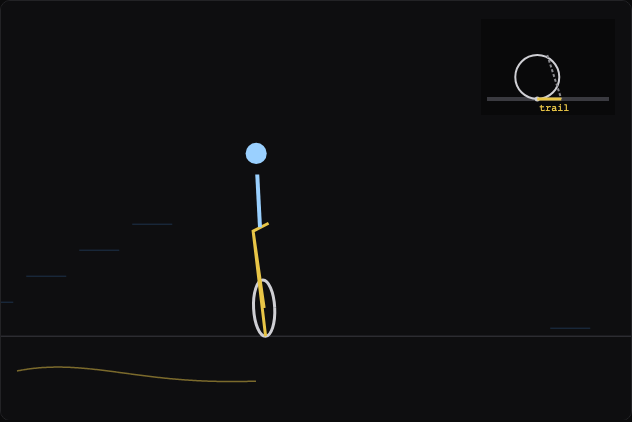
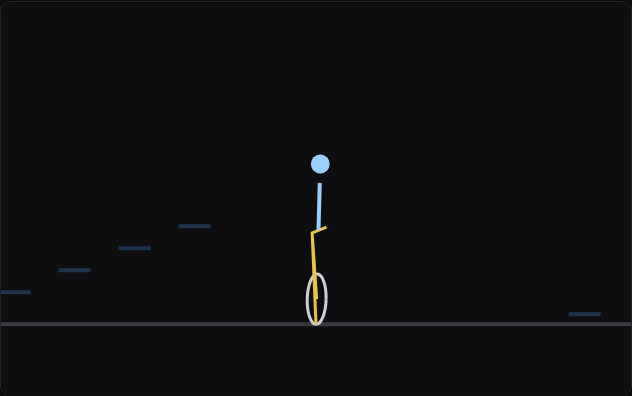
Rebuild Bicycle as a ground-up multi-figure module + flow lessons back
/sims/bicycle/: a deep Ciechanowski-style explainer that climbs the
prerequisite ladder — hero bike, then Force (F=ma), Torque (balance
beam), Balance (still bike falls), Trail (fork geometry), and
Self-stability (speed x trail), each its own draggable inline figure on
simkit. Verified all six render with no JS errors.

Skill lessons flowed back: document the \"inline multi-figure article\"
as a third module kind with the reusable per-figure fig() scaffold and
/sims/bicycle/ as the worked ground-up example; add a unit-consistency
anti-pattern (the force-figure bug) + screenshot-each-figure check.

diff --git a/sims/bicycle/index.html b/sims/bicycle/index.html
@@ -4,131 +4,186 @@
     <meta charset="utf-8" />
     <meta name="viewport" content="width=device-width, initial-scale=1" />
     <title>Why a Bicycle Stays Up — Kevin Arifin</title>
+    <meta name="description" content="A ground-up explorable: build from Newton's forces and torque to why a moving bicycle balances itself." />
     <link rel="stylesheet" href="../lib/sim.css" />
     <style>
-      .explain { display: grid; grid-template-columns: 1fr 1fr; gap: 36px; align-items: start; }
-      .figure { position: sticky; top: 16px; }
-      .figure .stage { aspect-ratio: 1 / 1; }
-      .figure .cap { margin-top: 8px; font-size: 0.8rem; color: var(--muted); min-height: 2.4em; }
-      .steps .step { min-height: 80vh; display: flex; flex-direction: column; justify-content: center;
-        border-left: 2px solid var(--border); padding-left: 18px; transition: border-color 0.2s ease; }
-      .steps .step.active { border-color: var(--accent); }
-      .steps .step h2 { font-size: 1.1rem; margin: 0 0 8px; }
-      .steps .step p { color: var(--muted); margin: 0; }
-      @media (max-width: 760px) {
-        .explain { grid-template-columns: 1fr; gap: 0; }
-        .figure { position: sticky; top: 0; z-index: 2; background: var(--bg); padding: 10px 0; }
-        .figure .stage { aspect-ratio: 3 / 2; }
-        .steps .step { min-height: 72vh; }
-      }
+      .sim { max-width: 720px; }
+      .lede { color: var(--muted); font-size: 1.06rem; }
+      .sim h2 { font-size: 1.2rem; margin: 38px 0 10px; }
+      .sim p { line-height: 1.72; }
+      .fig { margin: 22px 0 6px; }
+      .fig .stage { aspect-ratio: 16 / 10; }
+      .fig .controls { margin-top: 10px; }
+      .fig .cap { font-size: 0.8rem; color: var(--muted); margin-top: 7px; text-align: center; }
+      .rung { font-family: ui-monospace, Menlo, monospace; font-size: 0.72rem; letter-spacing: 0.12em; text-transform: uppercase; color: var(--accent); margin: 40px 0 -4px; }
     </style>
   </head>
   <body>
     <main class="sim">
       <a class="back" href="/sims/">← Sims</a>
       <h1>Why a Bicycle Stays Up</h1>
-      <p class="sub">In the spirit of Bartosz Ciechanowski's bicycle. The surprise: a moving bike balances itself, and the reason is the steering <em>geometry</em> — the front wheel trails behind the steering axis, so a lean makes it steer back underneath you. <strong>Canvas 2D</strong> · physics.</p>
+      <p class="lede">A moving bike, given a nudge, steers itself upright. That's genuinely strange — so we'll build the answer from the ground up: start with Newton's forces, add torque, see why standing still fails, then discover the steering trick that does the work. In the spirit of Bartosz Ciechanowski. Drag everything.</p>
 
-      <div class="explain">
-        <div class="figure">
-          <div class="stage" aria-label="Rear view of a self-balancing bike with a side-view of the steering trail"><canvas id="c"></canvas></div>
-          <div class="cap" id="cap"></div>
-          <div class="controls">
-            <label class="row"><span>Speed <strong id="vValue"></strong></span>
-              <input id="v" type="range" min="0" max="12" step="0.2" value="6" /></label>
-            <label class="row"><span>Trail <strong id="trValue"></strong></span>
-              <input id="tr" type="range" min="0" max="1" step="0.02" value="0.6" /></label>
-            <button id="nudge">Nudge</button>
-            <button id="reset">Reset</button>
-          </div>
-        </div>
-        <div class="steps" id="steps">
-          <section class="step" data-step data-v="0" data-tr="0.6" data-kick="0.9"><h2>1 · Standing still, it falls</h2><p>A bike is an upside-down pendulum. Give a stationary one the smallest lean and gravity just keeps pulling it over. Speed = 0 here — watch it topple.</p></section>
-          <section class="step" data-step data-v="0" data-tr="0.6"><h2>2 · The secret is the geometry</h2><p>Look at the side view (inset). The steering axis, extended down, hits the ground <em>ahead</em> of where the tire touches. That gap is the <strong>trail</strong> — and it changes everything.</p></section>
-          <section class="step" data-step data-v="5" data-tr="0.6" data-kick="0.7"><h2>3 · A trailing wheel self-aligns</h2><p>Like a shopping-cart caster, a wheel dragged behind its pivot swings straight on its own. On a leaning bike, that same trail makes the front wheel flop <em>into</em> the lean.</p></section>
-          <section class="step" data-step data-v="7" data-tr="0.6" data-kick="0.9"><h2>4 · Steering into the lean rights it</h2><p>Rolling forward, steering into the lean drives the wheels back underneath the center of mass — and the bike stands itself up. Faster makes this stronger (it scales with speed²).</p></section>
-          <section class="step" data-step data-v="7" data-tr="0" data-kick="0.7"><h2>5 · No trail, no magic</h2><p>Set the trail to zero and the self-steering disappears. Even at speed, the same nudge now puts the bike on the ground. The geometry, not the gyroscope, is doing the work.</p></section>
-          <section class="step" data-step data-v="6" data-tr="0.6" data-interactive="1"><h2>6 · Your turn</h2><p>Use the sliders under the figure: drop the speed or the trail until it can't recover, then bring them back. Hit <em>Nudge</em> to perturb it.</p></section>
-        </div>
-      </div>
+      <div class="fig"><div class="stage" aria-label="A rolling bicycle that self-balances when nudged"><canvas id="hero"></canvas></div>
+        <div class="controls"><button id="heroNudge">Nudge it</button><button id="heroReset">Reset</button></div>
+        <div class="cap">Roll forward, give it a shove — it wobbles and recovers. By the end you'll know exactly why.</div></div>
+
+      <p class="rung">Rung 1 · Force</p>
+      <h2>A force changes motion</h2>
+      <p>Newton: a force makes a mass accelerate, <strong>a = F / m</strong>. No force, no change in speed. Push the block — harder pushes build speed faster. This is the bedrock everything else sits on.</p>
+      <div class="fig"><div class="stage" aria-label="A block accelerating under a force you control"><canvas id="force"></canvas></div>
+        <div class="controls"><label class="row"><span>Force <strong id="fValue"></strong></span><input id="f" type="range" min="-120" max="120" step="5" value="60" /></label><button id="fReset">Reset</button></div></div>
+
+      <p class="rung">Rung 2 · Torque</p>
+      <h2>Off-center forces turn things</h2>
+      <p>A force applied away from a pivot doesn't just push — it <em>turns</em>. The turning effect is <strong>torque = force × distance</strong>. Slide the weight on the right: far out, a small weight outweighs a big one sitting close in. That "force times lever-arm" is how a leaning bike will end up steering itself.</p>
+      <div class="fig"><div class="stage" aria-label="A balance beam; drag the right weight's distance to change its torque"><canvas id="torque"></canvas></div>
+        <div class="controls"><label class="row"><span>Right weight distance <strong id="dValue"></strong></span><input id="d" type="range" min="0.2" max="1" step="0.02" value="0.55" /></label></div></div>
+
+      <p class="rung">Rung 3 · Balance</p>
+      <h2>Standing still, it just falls</h2>
+      <p>A bike is an upside-down pendulum: its mass sits above the contact point, so the tiniest lean creates a gravity torque that tips it further. Stationary, there's nothing to fight it. Nudge it and watch — speed is zero here, so it always loses.</p>
+      <div class="fig"><div class="stage" aria-label="A stationary bike tipping over like an inverted pendulum"><canvas id="balance"></canvas></div>
+        <div class="controls"><button id="balNudge">Nudge it</button><button id="balReset">Reset</button></div></div>
+
+      <p class="rung">Rung 4 · Trail</p>
+      <h2>The steering geometry hides a trick</h2>
+      <p>Extend the steering axis (the line the fork pivots about) down to the ground. It meets the road <em>ahead</em> of where the tire actually touches. That gap is the <strong>trail</strong>. A wheel whose contact point sits behind its pivot is a caster — like a shopping-cart wheel — and a caster wants to swing in line. Change the head angle and fork offset and watch the trail grow or vanish.</p>
+      <div class="fig"><div class="stage" aria-label="Side view of fork geometry showing the steering trail"><canvas id="trail"></canvas></div>
+        <div class="controls"><label class="row"><span>Head angle <strong id="haValue"></strong></span><input id="ha" type="range" min="62" max="82" step="1" value="72" /></label><label class="row"><span>Fork offset <strong id="foValue"></strong></span><input id="fo" type="range" min="0" max="60" step="2" value="30" /></label></div></div>
+
+      <p class="rung">Rung 5 · It all comes together</p>
+      <h2>Rolling + trail = self-balance</h2>
+      <p>Now compose the pieces. When the moving bike leans (Rung 3's gravity torque), the trail (Rung 4) makes the front wheel steer <em>into</em> the lean. Rolling forward, steering into the lean drives the contact patch back underneath the center of mass — a restoring torque (Rung 2) that scales with <strong>speed²</strong>. Enough speed and trail, and the nudge just produces a wobble that dies out. Kill either one and it falls. This is the same bike from the top, with the knobs exposed.</p>
+      <div class="fig"><div class="stage" aria-label="Self-balancing bike with speed and trail you control"><canvas id="stab"></canvas></div>
+        <div class="controls"><label class="row"><span>Speed <strong id="vValue"></strong></span><input id="v" type="range" min="0" max="12" step="0.2" value="6" /></label><label class="row"><span>Trail <strong id="trValue"></strong></span><input id="tr" type="range" min="0" max="1" step="0.02" value="0.6" /></label><button id="stabNudge">Nudge</button></div>
+        <div class="cap" id="stabCap"></div></div>
+
+      <p>That's the whole story, ground up: <strong>force</strong> changes motion, an <strong>off-center force is torque</strong>, gravity's torque topples a still bike, the steering <strong>trail</strong> turns a lean into a self-correcting steer, and <strong>speed</strong> makes that correction strong enough to win. No gyroscopes required. For the move that <em>starts</em> a turn, see <a href="/sims/countersteering/">countersteering</a>.</p>
 
       <script src="../lib/simkit.js"></script>
       <script>
-        const canvas = document.getElementById("c"), ctx = canvas.getContext("2d"), cap = document.getElementById("cap");
-        const params = { v: 6, tr: 0.6 };
-        let view = { w: 0, h: 0 }, phi = 0.06, phiv = 0, fallen = false, trace = [];
-
-        function resize() { view = Sim.fitCanvas(canvas, ctx); }
-        window.addEventListener("resize", () => { resize(); sim && sim.renderOnce(); });
-
-        function reset(kick) { phi = 0.04; phiv = kick || 0; fallen = false; trace = []; }
-        function update(dt) {
-          if (fallen) { phi += (Math.sign(phi) * 1.4 - phi) * Math.min(1, dt * 4); return; }
-          const g = 9.8, L = 1;
-          // gravity topples (+), steering-into-lean rights (−), scaled by v² and trail; plus steering damping
-          const stiffness = (params.v * params.v * params.tr * 0.7 - g) / L;
-          const acc = -stiffness * Math.sin(phi) - 1.6 * phiv;
-          phiv += acc * dt; phi += phiv * dt;
-          if (Math.abs(phi) > 1.25) { fallen = true; phiv = 0; }
-          trace.push(phi); if (trace.length > 240) trace.shift();
-        }
-        function bikePoint(P, lx, ly, S) { const c = Math.cos(phi), s = Math.sin(phi); return [P[0] + S * (lx * c + ly * s), P[1] + S * (lx * s - ly * c)]; }
-        function render() {
-          ctx.fillStyle = "#0e0e10"; ctx.fillRect(0, 0, view.w, view.h);
-          const groundY = view.h * 0.80, cx = view.w * 0.42, S = view.h * 0.42;
-          // ground + speed lines
-          ctx.strokeStyle = "#3a3a40"; ctx.lineWidth = 1; ctx.beginPath(); ctx.moveTo(0, groundY); ctx.lineTo(view.w, groundY); ctx.stroke();
-          if (params.v > 0.2 && !fallen) { ctx.strokeStyle = "rgba(79,163,255,0.25)"; for (let i = 0; i < 5; i++) { const yy = groundY - 8 - i * 26, off = (Date.now() / 1000 * params.v * 30) % 60; ctx.beginPath(); ctx.moveTo((i * 53 - off + view.w) % view.w - 40, yy); ctx.lineTo((i * 53 - off + view.w) % view.w, yy); ctx.stroke(); } }
-          const P = [cx, groundY];
-          // bike glyph (rear view) rotated by lean phi
-          const wheel = bikePoint(P, 0, 0.16, S), seat = bikePoint(P, -0.04, 0.6, S), bar = bikePoint(P, 0.05, 0.64, S), hip = bikePoint(P, 0, 0.62, S), sh = bikePoint(P, 0, 0.92, S), head = bikePoint(P, 0, 1.04, S);
-          // wheel (edge-on ellipse)
-          ctx.save(); ctx.translate(wheel[0], wheel[1]); ctx.rotate(phi); ctx.strokeStyle = "#cfcfd4"; ctx.lineWidth = 3; ctx.beginPath(); ctx.ellipse(0, 0, S * 0.06, S * 0.16, 0, 0, 6.28); ctx.stroke(); ctx.restore();
-          ctx.strokeStyle = "#e8c547"; ctx.lineWidth = 3; ctx.beginPath();
-          ctx.moveTo(P[0], P[1]); ctx.lineTo(seat[0], seat[1]); ctx.lineTo(bar[0], bar[1]); ctx.moveTo(seat[0], seat[1]); ctx.lineTo(wheel[0], wheel[1]); ctx.stroke();
-          // rider
-          ctx.strokeStyle = "#9ad0ff"; ctx.lineWidth = 4; ctx.beginPath(); ctx.moveTo(hip[0], hip[1]); ctx.lineTo(sh[0], sh[1]); ctx.stroke();
-          ctx.fillStyle = "#9ad0ff"; ctx.beginPath(); ctx.arc(head[0], head[1], S * 0.06, 0, 6.28); ctx.fill();
-          // side-view trail inset (top-right)
-          drawTrailInset(view.w - 150, 18, 134, 96);
-          // balance trace
-          ctx.strokeStyle = "rgba(232,197,71,0.5)"; ctx.lineWidth = 1.5; ctx.beginPath();
-          for (let i = 0; i < trace.length; i++) { const xx = 16 + i, yy = groundY + 0.5 * (view.h - groundY) - trace[i] * 60; i ? ctx.lineTo(xx, yy) : ctx.moveTo(xx, yy); }
-          ctx.stroke();
-          const deg = Math.abs(phi * 180 / Math.PI);
-          cap.textContent = (fallen ? "Fell over" : deg < 2 ? "Balanced" : "Lean " + deg.toFixed(0) + "°, correcting") + " · speed " + params.v.toFixed(1) + " · trail " + params.tr.toFixed(2);
-        }
-        function drawTrailInset(x, y, w, h) {
-          ctx.fillStyle = "rgba(0,0,0,0.35)"; ctx.fillRect(x, y, w, h);
-          const gy = y + h - 16, wheelX = x + w * 0.42, wheelR = 22;
-          ctx.strokeStyle = "#3a3a40"; ctx.beginPath(); ctx.moveTo(x + 6, gy); ctx.lineTo(x + w - 6, gy); ctx.stroke();
-          // wheel
-          ctx.strokeStyle = "#cfcfd4"; ctx.lineWidth = 2; ctx.beginPath(); ctx.arc(wheelX, gy - wheelR, wheelR, 0, 6.28); ctx.stroke();
-          // steering axis (head angle), hits ground ahead of contact by trail
-          const trailPx = params.tr * 40, headPt = [wheelX + 10, gy - wheelR * 2.0], groundHit = [wheelX + trailPx, gy];
-          ctx.strokeStyle = "#8a8a8f"; ctx.setLineDash([3, 2]); ctx.beginPath(); ctx.moveTo(headPt[0], headPt[1]); ctx.lineTo(groundHit[0], groundHit[1]); ctx.stroke(); ctx.setLineDash([]);
-          // contact point + trail segment
-          ctx.fillStyle = "#cfcfd4"; ctx.beginPath(); ctx.arc(wheelX, gy, 2.5, 0, 6.28); ctx.fill();
-          ctx.strokeStyle = "#e8c547"; ctx.lineWidth = 3; ctx.beginPath(); ctx.moveTo(wheelX, gy); ctx.lineTo(groundHit[0], gy); ctx.stroke();
-          ctx.fillStyle = "#e8c547"; ctx.font = "10px ui-monospace, monospace"; ctx.fillText("trail", (wheelX + groundHit[0]) / 2 - 10, gy + 12);
+        // ---- per-figure scaffold: HiDPI canvas + loop that pauses offscreen ----
+        function fig(id, opts) {
+          const cv = document.getElementById(id), ctx = cv.getContext("2d"); let view = { w: 0, h: 0 };
+          function resize() { view = Sim.fitCanvas(cv, ctx); }
+          const g = { cv: cv, ctx: ctx, get w() { return view.w; }, get h() { return view.h; } };
+          window.addEventListener("resize", function () { resize(); g.sim && g.sim.renderOnce(); });
+          resize();
+          g.sim = Sim.loop({ update: opts.update ? function (dt) { opts.update(g, dt); } : null, render: function () { opts.render(g); }, stage: cv.parentElement, autoplay: opts.autoplay !== false });
+          return g;
         }
 
-        resize(); reset(0.6);
-        const sim = Sim.loop({ update, render, stage: canvas.parentElement });
-        Sim.bind("v", params, "v", (x) => (+x).toFixed(1));
-        Sim.bind("tr", params, "tr", (x) => (+x).toFixed(2));
-        document.getElementById("nudge").addEventListener("click", () => { if (fallen) reset(0); phiv += 0.8; });
-        document.getElementById("reset").addEventListener("click", () => { reset(0.4); });
+        // ---- reusable rear-view self-balancing bike (used by hero, balance, stab) ----
+        function bikeFig(id, cfg) {
+          const P = { v: cfg.v, tr: cfg.tr };
+          let st;
+          function reset(kick) { st = { phi: 0.04, phiv: kick || 0, fallen: false }; }
+          reset(cfg.kick);
+          function pt(P0, lx, ly, S) { const c = Math.cos(st.phi), s = Math.sin(st.phi); return [P0[0] + S * (lx * c + ly * s), P0[1] + S * (lx * s - ly * c)]; }
+          const g = fig(id, {
+            update: function (_g, dt) {
+              if (st.fallen) { st.phi += (Math.sign(st.phi) * 1.4 - st.phi) * Math.min(1, dt * 4); return; }
+              const stiff = (P.v * P.v * P.tr * 0.7 - 9.8);
+              st.phiv += (-stiff * Math.sin(st.phi) - 1.6 * st.phiv) * dt; st.phi += st.phiv * dt;
+              if (Math.abs(st.phi) > 1.25) { st.fallen = true; st.phiv = 0; }
+            },
+            render: function (gg) {
+              const ctx = gg.ctx, W = gg.w, H = gg.h, groundY = H * 0.82, cx = W * 0.5, S = H * 0.4;
+              ctx.fillStyle = "#0e0e10"; ctx.fillRect(0, 0, W, H);
+              ctx.strokeStyle = "#3a3a40"; ctx.strokeLine(0, groundY, W, groundY);
+              if (P.v > 0.2 && !st.fallen) { ctx.strokeStyle = "rgba(79,163,255,0.25)"; const off = (Date.now() / 1000 * P.v * 26) % 54; for (let i = 0; i < 5; i++) { const xx = (i * 60 - off + W) % W, yy = groundY - 10 - i * 22; ctx.strokeLine(xx - 32, yy, xx, yy); } }
+              const Pg = [cx, groundY];
+              const wheel = pt(Pg, 0, 0.16, S), seat = pt(Pg, -0.04, 0.58, S), bar = pt(Pg, 0.05, 0.62, S), hip = pt(Pg, 0, 0.6, S), sh = pt(Pg, 0, 0.9, S), head = pt(Pg, 0, 1.02, S);
+              ctx.save(); ctx.translate(wheel[0], wheel[1]); ctx.rotate(st.phi); ctx.strokeStyle = "#cfcfd4"; ctx.lineWidth = 3; ctx.beginPath(); ctx.ellipse(0, 0, S * 0.06, S * 0.16, 0, 0, 6.28); ctx.stroke(); ctx.restore();
+              ctx.strokeStyle = "#e8c547"; ctx.lineWidth = 3; ctx.beginPath(); ctx.moveTo(Pg[0], Pg[1]); ctx.lineTo(seat[0], seat[1]); ctx.lineTo(bar[0], bar[1]); ctx.moveTo(seat[0], seat[1]); ctx.lineTo(wheel[0], wheel[1]); ctx.stroke();
+              ctx.strokeStyle = "#9ad0ff"; ctx.lineWidth = 4; ctx.strokeLine(hip[0], hip[1], sh[0], sh[1]);
+              ctx.fillStyle = "#9ad0ff"; ctx.disc(head[0], head[1], S * 0.06);
+              if (cfg.cap) cfg.cap(st, P);
+            },
+          });
+          g.params = P; g.reset = reset; g.state = function () { return st; };
+          return g;
+        }
 
-        const stepsEl = document.getElementById("steps");
-        Sim.steps(stepsEl, (i, el) => {
-          stepsEl.querySelectorAll(".step").forEach((s) => s.classList.remove("active"));
-          el.classList.add("active");
-          if (el.dataset.interactive === "1") return;
-          if (el.dataset.v !== undefined) { params.v = +el.dataset.v; document.getElementById("v").value = params.v; document.getElementById("vValue").textContent = params.v.toFixed(1); }
-          if (el.dataset.tr !== undefined) { params.tr = +el.dataset.tr; document.getElementById("tr").value = params.tr; document.getElementById("trValue").textContent = params.tr.toFixed(2); }
-          reset(+el.dataset.kick || 0.5);
-        });
+        const hero = bikeFig("hero", { v: 7, tr: 0.6, kick: 0.7 });
+        document.getElementById("heroNudge").onclick = function () { if (hero.state().fallen) hero.reset(0); hero.state().phiv += 0.8; };
+        document.getElementById("heroReset").onclick = function () { hero.reset(0.5); hero.sim.renderOnce(); };
+
+        const bal = bikeFig("balance", { v: 0, tr: 0.6, kick: 0.5 });
+        document.getElementById("balNudge").onclick = function () { bal.reset(0.6); };
+        document.getElementById("balReset").onclick = function () { bal.reset(0.4); bal.sim.renderOnce(); };
+
+        const stab = bikeFig("stab", { v: 6, tr: 0.6, kick: 0.7, cap: function (st, P) {
+          const el = document.getElementById("stabCap"); const deg = Math.abs(st.phi * 180 / Math.PI);
+          el.textContent = (st.fallen ? "Fell over — needs more speed or trail" : deg < 2 ? "Balanced" : "Lean " + deg.toFixed(0) + "°, correcting") + " · speed " + P.v.toFixed(1) + " · trail " + P.tr.toFixed(2);
+        } });
+        Sim.bind("v", stab.params, "v", function (x) { return (+x).toFixed(1); });
+        Sim.bind("tr", stab.params, "tr", function (x) { return (+x).toFixed(2); });
+        document.getElementById("stabNudge").onclick = function () { if (stab.state().fallen) stab.reset(0); stab.state().phiv += 0.8; };
+
+        // ---- Rung 1: Force (F = ma) ----
+        (function () {
+          const P = { F: 60 }; let x = 0.3, vel = 0;
+          const g = fig("force", { update: function (gg, dt) {
+              vel += P.F * 0.0028 * dt; x += vel * dt;
+              if (x < 0.06) { x = 0.06; vel = Math.abs(vel) * 0.5; } if (x > 0.94) { x = 0.94; vel = -Math.abs(vel) * 0.5; }
+            }, render: function (gg) {
+              const ctx = gg.ctx, W = gg.w, H = gg.h, y = H * 0.6; ctx.fillStyle = "#0e0e10"; ctx.fillRect(0, 0, W, H);
+              ctx.strokeStyle = "#3a3a40"; ctx.strokeLine(0, y + 26, W, y + 26);
+              const bx = x * W; ctx.fillStyle = "#e8c547"; ctx.fillRect(bx - 22, y - 22, 44, 44);
+              if (Math.abs(P.F) > 1) { ctx.strokeStyle = ctx.fillStyle = "#ff8a5a"; ctx.lineWidth = 3; ctx.arrow(bx + 22 * Math.sign(P.F), y, bx + 22 * Math.sign(P.F) + P.F * 0.5, y, 9); ctx.label(bx + P.F * 0.25, y - 30, "force", { color: "#ff8a5a", align: "center" }); }
+              if (Math.abs(vel) > 0.02) { ctx.strokeStyle = ctx.fillStyle = "#9ad0ff"; ctx.lineWidth = 2; ctx.arrow(bx, y - 34, bx + vel * 220, y - 34, 7); }
+              ctx.label(14, 22, "a = F/m = " + P.F.toFixed(0) + " · speed = " + (vel * 100).toFixed(0), { size: 12 });
+            } });
+          Sim.bind("f", P, "F", function (v) { return (+v).toFixed(0); });
+          document.getElementById("fReset").onclick = function () { x = 0.3; vel = 0; g.sim.renderOnce(); };
+        })();
+
+        // ---- Rung 2: Torque (balance beam) ----
+        (function () {
+          const P = { d: 0.55 }; let ang = 0, w = 0; const mL = 1.4, dL = 0.55, mR = 1.0;
+          fig("torque", { update: function (gg, dt) {
+              const net = (mR * P.d - mL * dL); // right torque − left torque
+              ang += (net * 1.6 * Math.cos(ang) - 2.2 * w) * dt; w = (w + (net * 1.6 * Math.cos(ang)) * dt) * 0.9; ang = Sim.clamp(ang, -0.5, 0.5);
+            }, render: function (gg) {
+              const ctx = gg.ctx, W = gg.w, H = gg.h, cx = W * 0.5, cy = H * 0.5, L = Math.min(W * 0.4, 220);
+              ctx.fillStyle = "#0e0e10"; ctx.fillRect(0, 0, W, H);
+              ctx.fillStyle = "#8a8a8f"; ctx.beginPath(); ctx.moveTo(cx, cy + 6); ctx.lineTo(cx - 16, cy + 54); ctx.lineTo(cx + 16, cy + 54); ctx.closePath(); ctx.fill();
+              const c = Math.cos(ang), s = Math.sin(ang);
+              const lx = cx - L * c, ly = cy - L * s, rx = cx + L * c, ry = cy + L * s;
+              ctx.strokeStyle = "#cfcfd4"; ctx.lineWidth = 5; ctx.strokeLine(lx, ly, rx, ry);
+              const lwx = cx - dL * L * c, lwy = cy - dL * L * s, rwx = cx + P.d * L * c, rwy = cy + P.d * L * s;
+              ctx.fillStyle = "#4fa3ff"; ctx.disc(lwx, lwy - 4, 8 + mL * 4);
+              ctx.fillStyle = "#e8c547"; ctx.disc(rwx, rwy - 4, 8 + mR * 4);
+              ctx.label(cx, H - 12, "left torque " + (mL * dL).toFixed(2) + "   vs   right torque " + (mR * P.d).toFixed(2), { align: "center", size: 12, color: "#8a8a8f" });
+            } });
+          Sim.bind("d", P, "d", function (v) { return (+v).toFixed(2); });
+        })();
+
+        // ---- Rung 4: Trail (fork geometry, static) ----
+        (function () {
+          const P = { ha: 72, fo: 30 };
+          const g = fig("trail", { autoplay: false, render: function (gg) {
+              const ctx = gg.ctx, W = gg.w, H = gg.h, gy = H * 0.82, R = H * 0.26, wheelX = W * 0.5;
+              ctx.fillStyle = "#0e0e10"; ctx.fillRect(0, 0, W, H);
+              ctx.strokeStyle = "#3a3a40"; ctx.strokeLine(0, gy, W, gy);
+              ctx.strokeStyle = "#cfcfd4"; ctx.lineWidth = 3; ctx.ring(wheelX, gy - R, R);
+              const a = (90 - P.ha) * Math.PI / 180; // lean of steering axis from vertical
+              // axis passes through a hub point offset forward by fork offset, hits ground ahead of contact
+              const hub = [wheelX + P.fo * 0.0, gy - R];
+              const axisTopX = hub[0] + Math.sin(a) * R * 1.7 - P.fo, axisTopY = hub[1] - Math.cos(a) * R * 1.7;
+              const groundHitX = hub[0] + Math.tan(a) * R - (P.fo - 30) * 0.7 + 30;
+              ctx.strokeStyle = "#8a8a8f"; ctx.setLineDash([4, 3]); ctx.strokeLine(axisTopX, axisTopY, groundHitX, gy); ctx.setLineDash([]);
+              ctx.fillStyle = "#cfcfd4"; ctx.disc(wheelX, gy, 3);
+              ctx.strokeStyle = ctx.fillStyle = "#e8c547"; ctx.lineWidth = 4; ctx.strokeLine(wheelX, gy, groundHitX, gy);
+              const trail = Math.round(groundHitX - wheelX);
+              ctx.label((wheelX + groundHitX) / 2, gy + 18, "trail = " + trail + (trail > 4 ? "  (caster: stable)" : trail < -2 ? "  (negative: unstable)" : ""), { align: "center", color: "#e8c547" });
+            } });
+          Sim.bind("ha", P, "ha", function (v) { g.sim.renderOnce(); return v + "°"; });
+          Sim.bind("fo", P, "fo", function (v) { g.sim.renderOnce(); return v + " mm"; });
+          g.sim.renderOnce();
+        })();
       </script>
     </main>
   </body>

diff --git a/.skills/building-html-simulations/SKILL.md b/.skills/building-html-simulations/SKILL.md
@@ -197,9 +197,21 @@ Match the format to the concept — and **do not cap a lesson at ~6 steps.** A s
 
 **Deciding:** count the distinct ideas a reader needs first. One or two → single page. Several that depend on each other → a module that builds them in order and ends on a figure combining them.
 
-**Two kinds of module:**
-1. **Long scrolly lesson** — one page, many figures in sequence (the `Sim.steps()` pattern, extended well past 6 steps). Best when the ideas form one continuous argument (Moon, Bicycle).
-2. **Course module** — a landing page that sequences several *standalone* sims as ordered lessons with connecting narrative (e.g. a Probability module: Monte Carlo → Random Walk → Galton → CLT → Bayes). Best when each lesson is independently useful. Lives at `/sims/modules/<name>/`.
+**Three kinds of module:**
+1. **Sticky scrolly lesson** — one page, a *single sticky figure* that morphs as prose steps scroll past it (the `Sim.steps()` pattern). Best when one continuous figure carries the whole argument (Moon, Road to Serfdom).
+2. **Inline multi-figure article** — many *independent* small figures down the page, each isolating one idea, interleaved with prose (the true Ciechanowski format). `/sims/bicycle/` is the worked example: a hero bike, then Force → Torque → Balance → Trail → Self-stability, each its own canvas. Use a tiny per-figure scaffold so every figure gets HiDPI sizing + its own `Sim.loop` that pauses offscreen:
+   ```js
+   function fig(id, opts) {
+     const cv = document.getElementById(id), ctx = cv.getContext("2d"); let view;
+     function resize() { view = Sim.fitCanvas(cv, ctx); } resize();
+     const g = { cv, ctx, get w() { return view.w; }, get h() { return view.h; } };
+     window.addEventListener("resize", () => { resize(); g.sim.renderOnce(); });
+     g.sim = Sim.loop({ update: opts.update && (dt => opts.update(g, dt)), render: () => opts.render(g), stage: cv.parentElement });
+     return g;
+   }
+   ```
+   This is the format for building a hard concept from the ground up — one rung of the prerequisite ladder per figure.
+3. **Course module** — a landing page that sequences several *standalone* sims as ordered lessons with connecting narrative (e.g. a Probability module: Monte Carlo → Random Walk → Galton → CLT → Bayes). Best when each lesson is independently useful. Lives at `/sims/modules/<name>/`.
 
 Plan the arc before building: write the section list (like Ciechanowski's headings), decide which need their own figure, then build figure by figure.
 
@@ -266,6 +278,7 @@ Build Progress:
 - Twenty sliders and no default state — the reader bounces before understanding anything.
 - A build step or npm dependency that breaks plain static hosting.
 - Allocating garbage every frame; never pausing offscreen.
+- Mixing units between sim state and display — e.g. velocity stored as a fraction but drawn/labelled as pixels. The code runs but the figure looks frozen and the readout reads 0. Keep state, drawing, and readouts in one consistent unit, and screenshot each figure (not just the first `.stage`) to catch it.
 - Shipping a new sim without the deterministic eval report and an independent pedagogy/affordance review.
 - Patching generated HTML repeatedly while leaving the skill, starter, evaluator, or references unchanged when the same failure will recur.
 